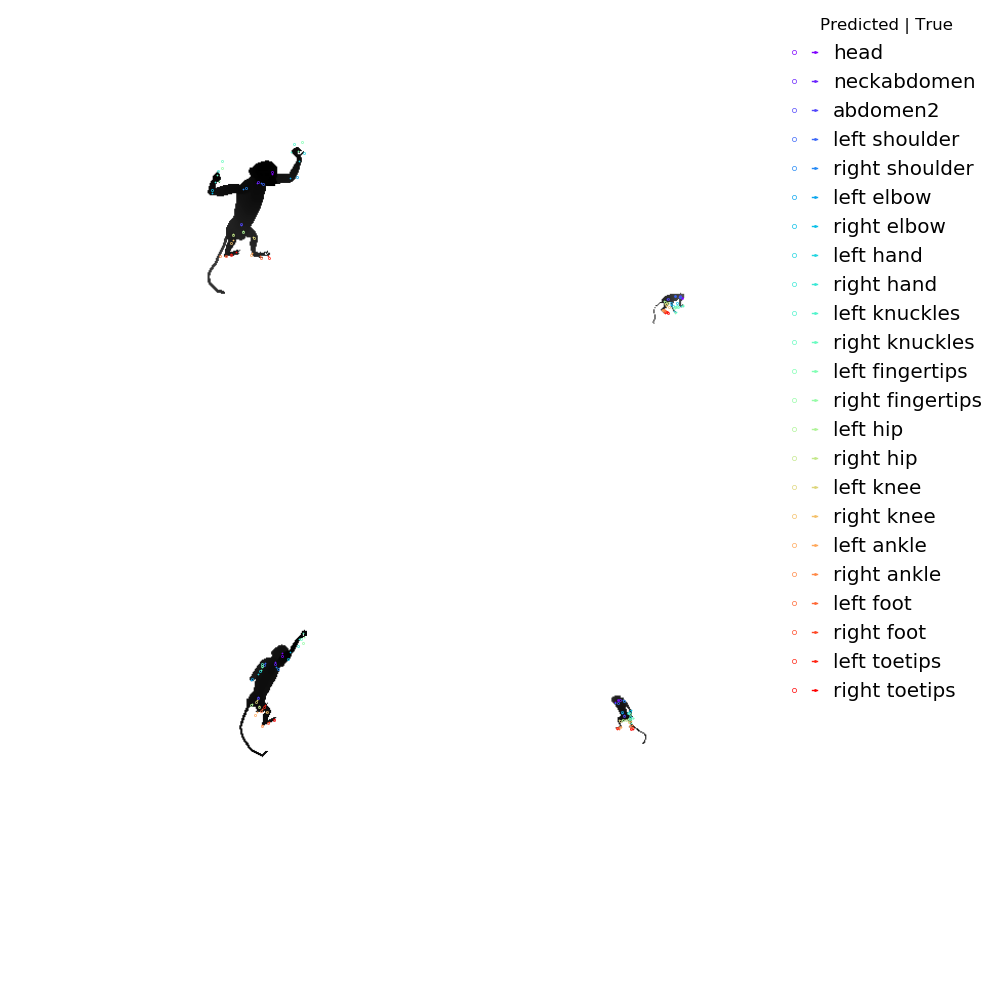
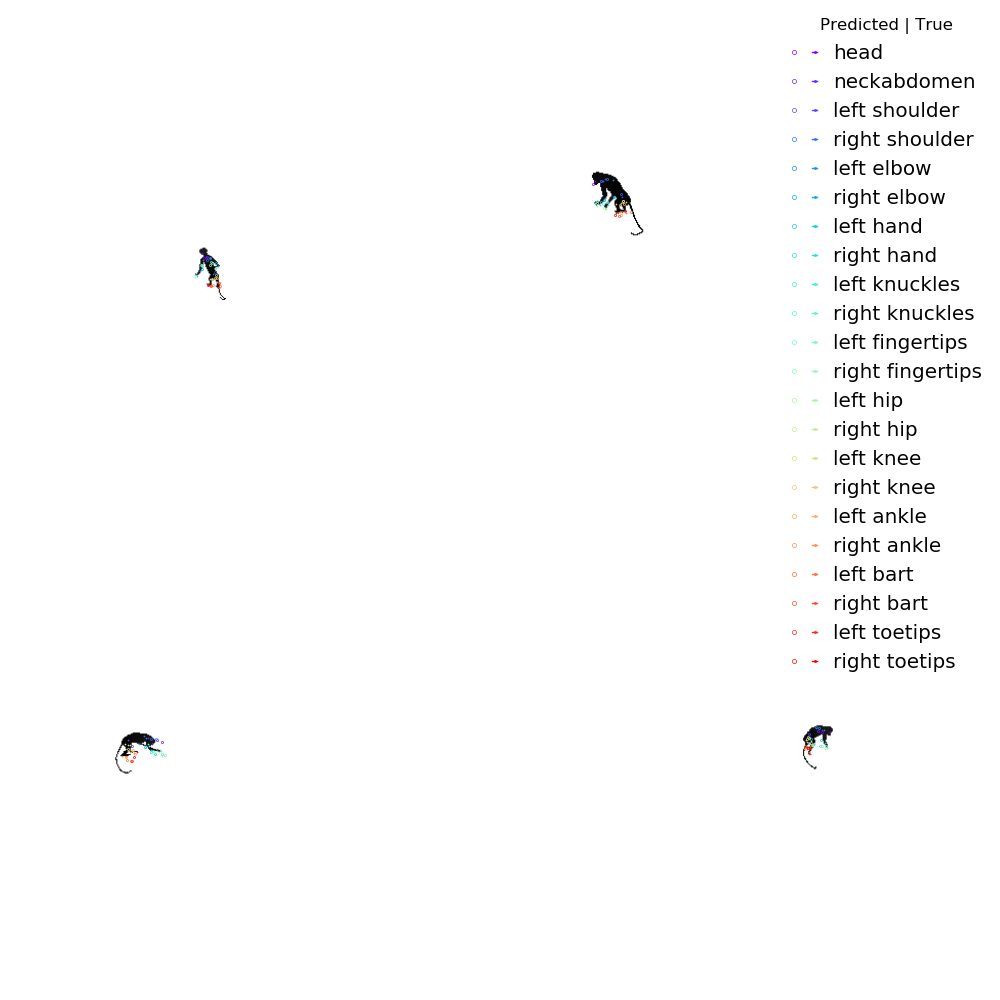
Outputting jsons of predictions. Improved model predictions and normalization. Added new videos.

diff --git a/ops/test_tf_kinect.py b/ops/test_tf_kinect.py
@@ -36,7 +36,9 @@ def apply_cnn_masks_to_kinect(
             enumerate(zip(frames, image_masks)), total=len(frames)):
         m = resize(m, target_shape)
         pm = m > np.percentile(m.ravel(), prct)
+        pm = binary_dilation(pm)
         pm = binary_fill_holes(pm)
+        pm = binary_fill_holes(pm, structure=np.ones((5,5)))
         tf = f * pm
         if crop_and_pad:
             # Crop keeping the aspect ratio
@@ -70,15 +72,10 @@ def apply_cnn_masks_to_kinect(
     return of, crop_coordinates
 
 
-def gkern2(kernlen=10, nsig=6):
+def gkern2(img, kern=3):
     """Returns a 2D Gaussian kernel array."""
-
-    # create nxn zeros
-    inp = np.zeros((kernlen, kernlen))
-    # set element at the middle to one, a dirac delta
-    inp[kernlen//2, kernlen//2] = 1
-    # gaussian-smooth the dirac, resulting in a gaussian filter mask
-    return fi.gaussian_filter(inp, nsig)
+    kernel = np.ones((kern,kern),np.float32)/kern**2
+    return cv2.filter2D(img,-1,kernel)
 
 
 def normalize_frames(
@@ -88,14 +85,18 @@ def normalize_frames(
         min_max_norm=True,
         max_adj=1,
         min_adj=1,
+        kinect_max_adj=1,
+        kinect_min_adj=1,
         smooth=False):
     """ Need to transform kinect -> maya.
     To do this, for each frame, ID the foreground, then transform its depth to
     maya space."""
     print 'Adjusting max with: %s. Min with: %s.' % (max_adj, min_adj)
+    max_value = max_value * max_adj
+    min_value = min_value * min_adj
     delta = max_value - min_value
-    kinect_max = frames.max()  * max_adj
-    kinect_min = frames[frames > 0].min()  * min_adj
+    kinect_max = frames.max() * kinect_max_adj
+    kinect_min = frames[frames > 0].min() * kinect_min_adj
     trans_f = np.zeros((frames.shape))
     print 'Normalizing kinect to maya.'
     for idx, f in tqdm(enumerate(frames), total=len(frames)):
@@ -107,7 +108,7 @@ def normalize_frames(
             it_f = (normalized_f * (delta)) + min_value
         else:
             normalized_f = f / kinect_max
-            it_f = (normalized_f * (delta))
+            it_f = (normalized_f * max_value)
         if smooth:
             it_f = gkern2(it_f)
         it_f *= zeros_mask
@@ -363,7 +364,8 @@ def bb_monkey(
         max_sigma=100,
         threshold=.1,
         denoise=True,
-        time_threshold=95):
+        time_threshold=95,
+        crop_image=False):
     # Find "movement mask"
     print 'Deriving movement mask.'
     mm = np.sum(np.asarray(frames), axis=0).astype(np.float32)
@@ -379,31 +381,32 @@ def bb_monkey(
     xye = []
     for f in tqdm(frames, total=len(frames)):
         f *= mm  # Mask the image w/ movement
-        rprops = measure.regionprops(f)
-        areas = np.argsort([r.area for r in rprops])[::-1]
-        x0, y0 = rprops[areas[0]].centroid
-        x0 = int(x0)
-        y0 = int(y0)
-        minr = np.min([0, x0 - bb_size[0]])
-        minc = np.min([0, x0 - bb_size[1]])
-        maxr = np.max([f_size[0], x0 + bb_size[0]])
-        maxc = np.max([f_size[1], x0 + bb_size[1]])
-        f = f[minr:maxr, minc:maxc]
-        if denoise:
-            good_ones = f > 0
-            good_ones = binary_dilation(
-                binary_closing(
-                    binary_opening(good_ones), iterations=2),
-                iterations=2)
-            f *= good_ones
+        if crop_image:
+            rprops = measure.regionprops(f)
+            areas = np.argsort([r.area for r in rprops])[::-1]
+            x0, y0 = rprops[areas[0]].centroid
+            x0 = int(x0)
+            y0 = int(y0)
+            minr = np.min([0, x0 - bb_size[0]])
+            minc = np.min([0, x0 - bb_size[1]])
+            maxr = np.max([f_size[0], x0 + bb_size[0]])
+            maxc = np.max([f_size[1], x0 + bb_size[1]])
+            f = f[minr:maxr, minc:maxc]
+            if denoise:
+                good_ones = f > 0
+                good_ones = binary_dilation(
+                    binary_closing(
+                        binary_opening(good_ones), iterations=2),
+                    iterations=2)
+                f *= good_ones
 
+            xye += [{
+                'x': x0,
+                'y': y0,
+                'h': bb_size[0],
+                'w': bb_size[1]
+            }]
         crop_frames += [f]
-        xye += [{
-            'x': x0,
-            'y': y0,
-            'h': bb_size[0],
-            'w': bb_size[1]
-        }]
         # crop_frames += [resize(
         #     f,
         #     f_size,

diff --git a/kinect_config.py b/kinect_config.py
@@ -4,7 +4,7 @@ import os
 class kinectConfig():
 
     def __init__(self):
-        self.selected_video = 'monkey_on_pole_3'
+        self.selected_video = 'monkey_in_cage_1'  # 'monkey_on_pole_3'
         self.defaults = {
             'rotate_frames': -1,
             'use_tfrecords': True,  # Package into tfrecords
@@ -47,6 +47,8 @@ class kinectConfig():
             # Normalization
             'max_adjust': 0.5,
             'min_adjust': 2,
+            'kinect_max_adjust': 0.75,
+            'kinect_min_adjust': 1,
 
             # Kinect file settings
             'base_dir': '/media/data_cifs/monkey_tracking/',
@@ -122,13 +124,13 @@ class kinectConfig():
 
     def monkey_on_pole_3(self):
         container = self.defaults
-        container['start_frame'] = 150
-        container['end_frame'] = 35
-        container['time_threshold'] = 90
-        container['find_bb'] = True
-        container['low_threshold'] = 1400
-        container['high_threshold'] = 3350
-        container['cnn_threshold'] = 70
+        container['start_frame'] = 150  # Keep
+        container['end_frame'] = 35  # Keep
+        container['time_threshold'] = 80
+        container['find_bb'] = False  # Do not use when outputting moies
+        container['low_threshold'] = 1400  # Keep
+        container['high_threshold'] = 3350  # Keep
+        container['cnn_threshold'] = 70  # Keep
         container['crop_and_pad'] = False
         container['output_dir'] = '/home/drew/Desktop/'
         container['data_dir'] = os.path.join(
@@ -137,6 +139,9 @@ class kinectConfig():
         container['kinect_output_name'] = os.path.join(
             '/media/data_cifs/monkey_tracking/data_for_babas/processed_videos',
             'monkey_on_pole_3.mp4')
+        container['output_json_path'] = os.path.join(
+            '/media/data_cifs/monkey_tracking/data_for_babas/processed_jsons',
+            'monkey_on_pole_3.json')
         container['predicted_output_name'] = os.path.join(
             container['data_dir'],
             'predicted_monkey_on_pole_3.mp4')
@@ -159,6 +164,8 @@ class kinectConfig():
         container['kinect_video'] = 'video.mp4'
         container['max_adjust'] = 1
         container['min_adjust'] = 1
+        container['kinect_max_adjust'] = 1
+        container['kinect_min_adjust'] = 1
         return container
 
     def monkey_in_cage_1(self):
@@ -174,13 +181,16 @@ class kinectConfig():
         container['output_dir'] = '/home/drew/Desktop/'
         container['data_dir'] = os.path.join(
             container['output_dir'],
-            'predicted_monkey_on_pole_3')
+            'predicted_monkey_in_cage_1')
         container['kinect_output_name'] = os.path.join(
             '/media/data_cifs/monkey_tracking/data_for_babas/processed_videos',
             'monkey_in_cage_1.mp4')
+        container['output_json_path'] = os.path.join(
+            '/media/data_cifs/monkey_tracking/data_for_babas/processed_jsons',
+            'monkey_in_cage_1.json')
         container['predicted_output_name'] = os.path.join(
             container['data_dir'],
-            'predicted_monkey_on_pole_3.mp4')
+            'predicted_monkey_in_cage_1.mp4')
         container['gt_output_name'] = None
         container['output_npy_path'] = container['data_dir']
         container['tfrecord_name'] = os.path.join(

diff --git a/test_model_with_kinect.py b/test_model_with_kinect.py
@@ -1,6 +1,7 @@
 import argparse
 import os
 import re
+import json
 import cPickle as pickle
 import numpy as np
 import tensorflow as tf
@@ -58,8 +59,8 @@ def main(model_dir, ckpt_name, run_tests=False, reuse_kinect=None):
         reuse_dict = np.load(npz_file)
         frame_toss_index = reuse_dict['frame_toss_index']
         extents = reuse_dict['extents']
-        max_array = reuse_dict['max_array']
-        use_kinect = reuse_dict['use_kinect']
+	max_array = reuse_dict['max_array']
+	use_kinect = reuse_dict['use_kinect']
         config.max_depth = max_array
         config.background_constant = config.max_depth * 2
         config.train_batch = 2
@@ -226,6 +227,11 @@ def main(model_dir, ckpt_name, run_tests=False, reuse_kinect=None):
         test_tf_kinect.save_to_numpys(
             file_dict=files_to_save,
             path=kinect_config['output_npy_path'])
+        # Also save json key/value dicts
+        list_of_yhat_joints = [{k: float(v) for k, v in zip(config.joint_names, yhats)} for yhats in joint_dict['yhat']]
+        with open(kinect_config['output_json_path'], 'w') as fout:
+            json.dump(list_of_yhat_joints, fout)
+        print 'JSON saved to: %s' % kinect_config['output_json_path'] 
 
 
 if __name__ == '__main__':
@@ -234,15 +240,13 @@ if __name__ == '__main__':
         "--model_dir",
         dest="model_dir",
         type=str,
-        default=None,  # '/media/data_cifs/monkey_tracking/results/' + \
-            # 'TrueDepth2MilStore/model_output/' + \
-            # 'cnn_multiscale_high_res_low_res_skinny_pose_occlusion_2017_06_28_14_21_21',  # 'cnn_multiscale_high_res_low_res_skinny_pose_occlusion_2017_06_27_18_36_53', # 'cnn_multiscale_high_res_low_res_skinny_pose_occlusion_2017_06_23_21_33_30',  # 'cnn_multiscale_high_res_low_res_skinny_pose_occlusion_2017_06_23_10_35_34',
+        default=None,
         help='Name of model directory.')
     parser.add_argument(
         "--ckpt_name",
         dest="ckpt_name",
         type=str,
-        default=None,  # 'model_49000.ckpt-49000',
+        default=None,
         help='Name of TF checkpoint file.')
     parser.add_argument(
         "--test",

diff --git a/preprocess_kinect_with_model.py b/preprocess_kinect_with_model.py
@@ -98,7 +98,7 @@ def main(model_dir, ckpt_name, run_tests=False):
     if kinect_config['find_bb']:
         frames, extents, frame_toss_index = test_tf_kinect.bb_monkey(
             frames,
-            kinect_config['time_threshold'])
+            time_threshold=kinect_config['time_threshold'])
     else:
         extents = []
         frame_toss_index = []
@@ -119,7 +119,7 @@ def main(model_dir, ckpt_name, run_tests=False):
     elif kinect_config['crop'] == 'static':
         frames = [test_tf_kinect.crop_aspect_and_resize_center(
             f, new_size=config.image_target_size[:2]) for f in frames]
-    elif kinect_config['static_and_crop'] == 'static':
+    elif kinect_config['crop'] == 'static_and_crop':
         frames = [test_tf_kinect.crop_to_shape(
             f,
             h0=kinect_config['h0'],
@@ -178,7 +178,9 @@ def main(model_dir, ckpt_name, run_tests=False):
         max_value=config.max_depth,
         min_value=config.min_depth,
         max_adj=kinect_config['max_adjust'],
-        min_adj=kinect_config['min_adjust'])
+        min_adj=kinect_config['min_adjust'],
+        kinect_max_adj=kinect_config['kinect_max_adjust'],
+        kinect_min_adj=kinect_config['kinect_min_adjust'])
 
     if kinect_config['use_tfrecords']:
         frame_pointer, max_array, it_frame_toss_index = test_tf_kinect.create_joint_tf_records_for_kinect(

diff --git a/config.py b/config.py
@@ -168,7 +168,6 @@ class monkeyConfig(object):
             'head',
             'neck'
             'abdomen',
-            'abdomen2',
             'left shoulder',
             'right shoulder',
             'left elbow',
